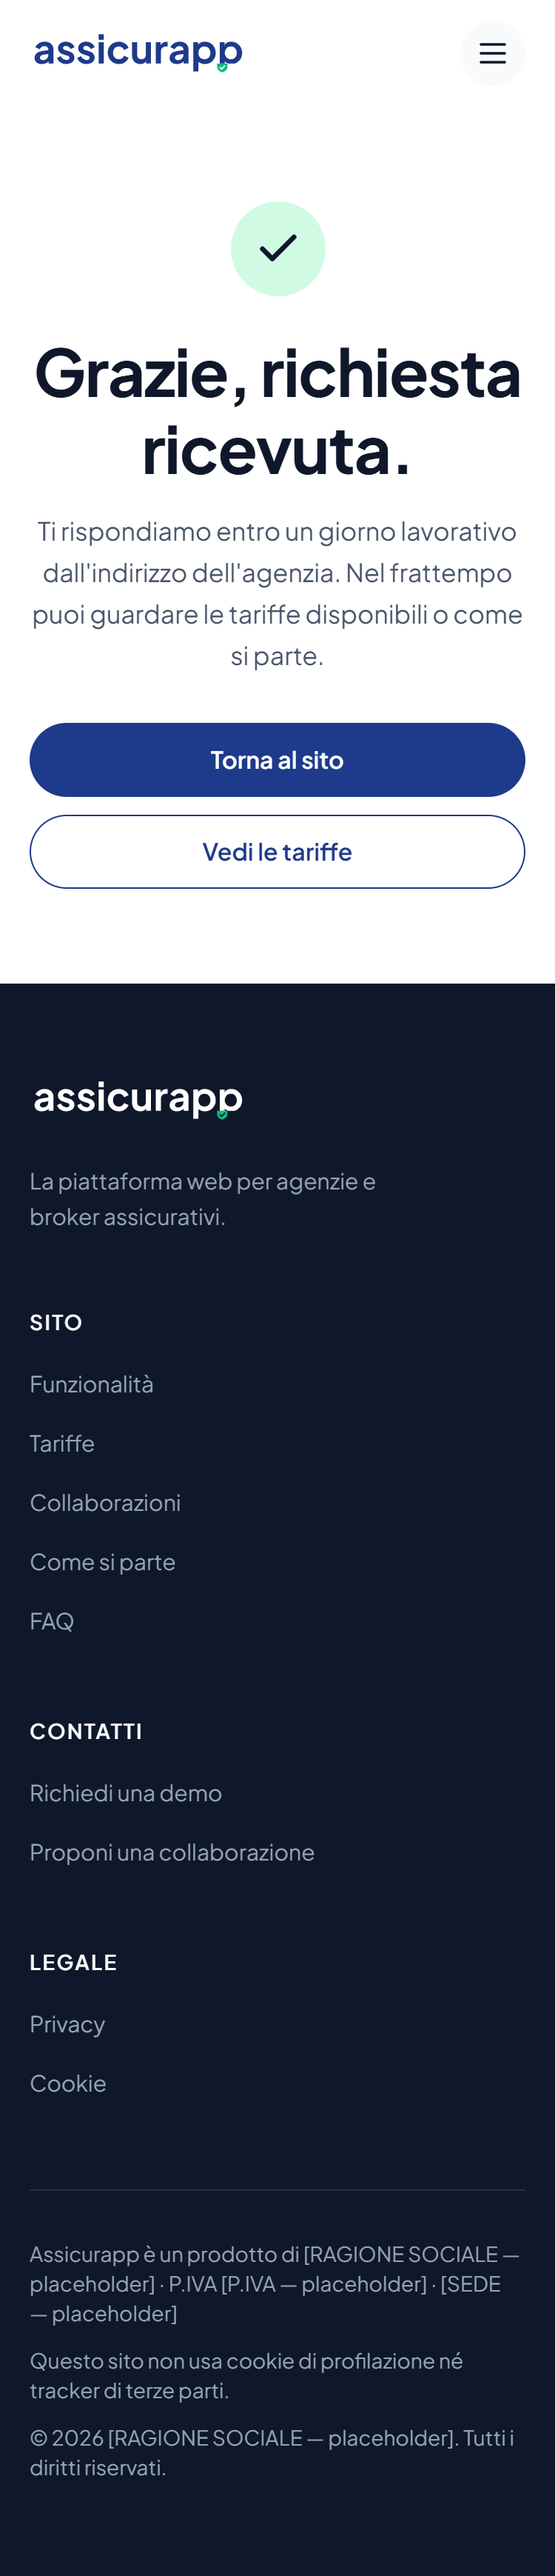
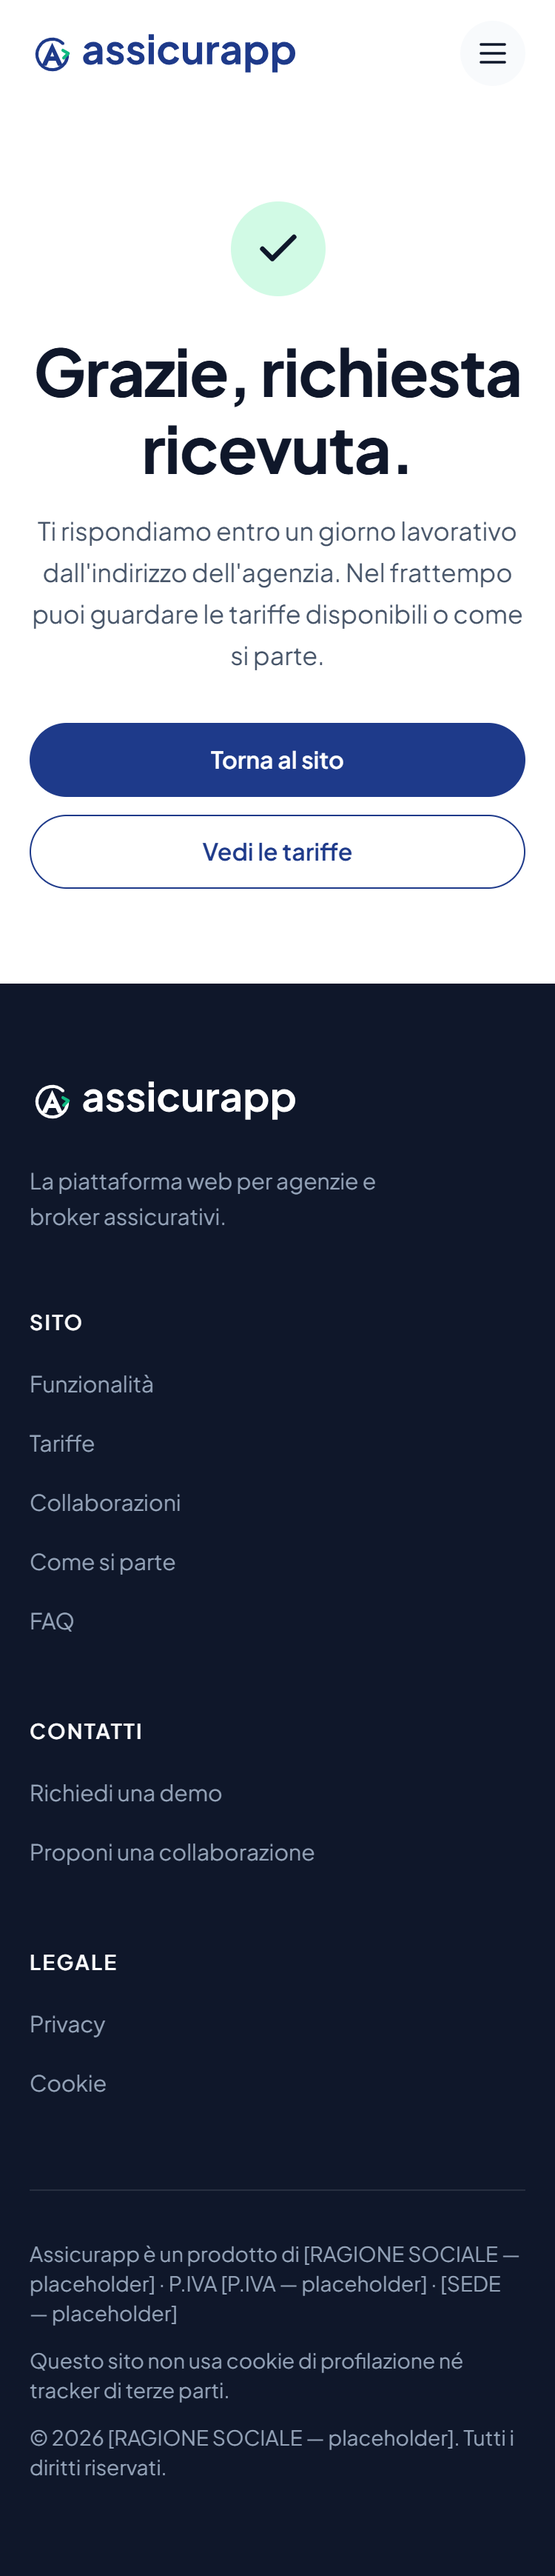
Nuovo segno "Orbita": A geometrica in un anello chiuso da una freccia verde
Sostituisce lo scudo sulla "pp": ora il logo ha un solo simbolo, a sinistra della
parola intera. Costruzione originale, nessuna forma ripresa da marchi esistenti.
Rigenerati logo, logo-white, logo-mark, favicon, apple-touch-icon e og-image;
le tre proposte valutate restano in docs/logo-alternative/logo-a-proposte.png.
Brand guidelines e README aggiornati; screenshot rigenerati.

Changed region(s): [[0.0613, 0.4037, 0.5213, 0.4347], [0.0613, 0.0, 0.5213, 0.0311]]

diff --git a/docs/brand-guidelines.md b/docs/brand-guidelines.md
@@ -32,9 +32,9 @@ Esempi:
 
 ## 3. Logo
 
-**Wordmark + segno.** La parola `assicurapp` in minuscolo, Plus Jakarta Sans 700, convertita in path.
-La penultima "p" resta intera; l'asta dell'ultima "p" scende sotto la linea di base e diventa uno **scudo verde con segno di spunta**, largo il doppio dell'asta.
-Il resto della parola è navy `#1E3A8A`. Lo scudo funziona anche da solo (favicon, app icon).
+**Segno + wordmark.** Il segno ("Orbita") è una **A geometrica** dentro un anello aperto che si chiude con una **freccia verde**: la lettera iniziale, il movimento del preventivo che parte, la copertura che si chiude intorno al cliente. È ispirato alle lettere-emblema del cinema d'azione ma è una costruzione originale: nessuna forma è ripresa da marchi esistenti.
+A sinistra del segno nulla; a destra, dopo uno spazio pari a mezza x-height, la parola `assicurapp` in minuscolo, Plus Jakarta Sans 700, convertita in path. A e anello navy `#1E3A8A`, freccia verde `#10B981`; in negativo A e anello bianchi, freccia sempre verde.
+Il segno è alto quanto la parola (dall'ascendente al discendente) e funziona da solo come favicon e icona app. Nel wordmark c'è un solo segno: lo scudo con spunta della versione precedente non si usa più.
 
 File in `public/brand/` (generati da `npm run brand:build`, script `scripts/build-brand.mjs`):
 

diff --git a/README.md b/README.md
@@ -136,5 +136,5 @@ Tutti i testi restano in `src/content/site.it.json` (chiavi `meta`, `about`, `fa
 ## Brand
 
 Regole in `docs/brand-guidelines.md`. Il logo è un SVG originale generato in codice da `scripts/build-brand.mjs`
-(testo convertito in path da Plus Jakarta Sans Bold, scudo con spunta disegnato geometricamente).
-La penultima "p" resta intera; l'asta dell'ultima "p" scende sotto la linea di base e diventa lo scudo.
+(segno "Orbita": A geometrica in un anello aperto chiuso da una freccia verde, disegnato geometricamente;
+parola convertita in path da Plus Jakarta Sans Bold). Le proposte valutate sono in `docs/logo-alternative/logo-a-proposte.png`.
